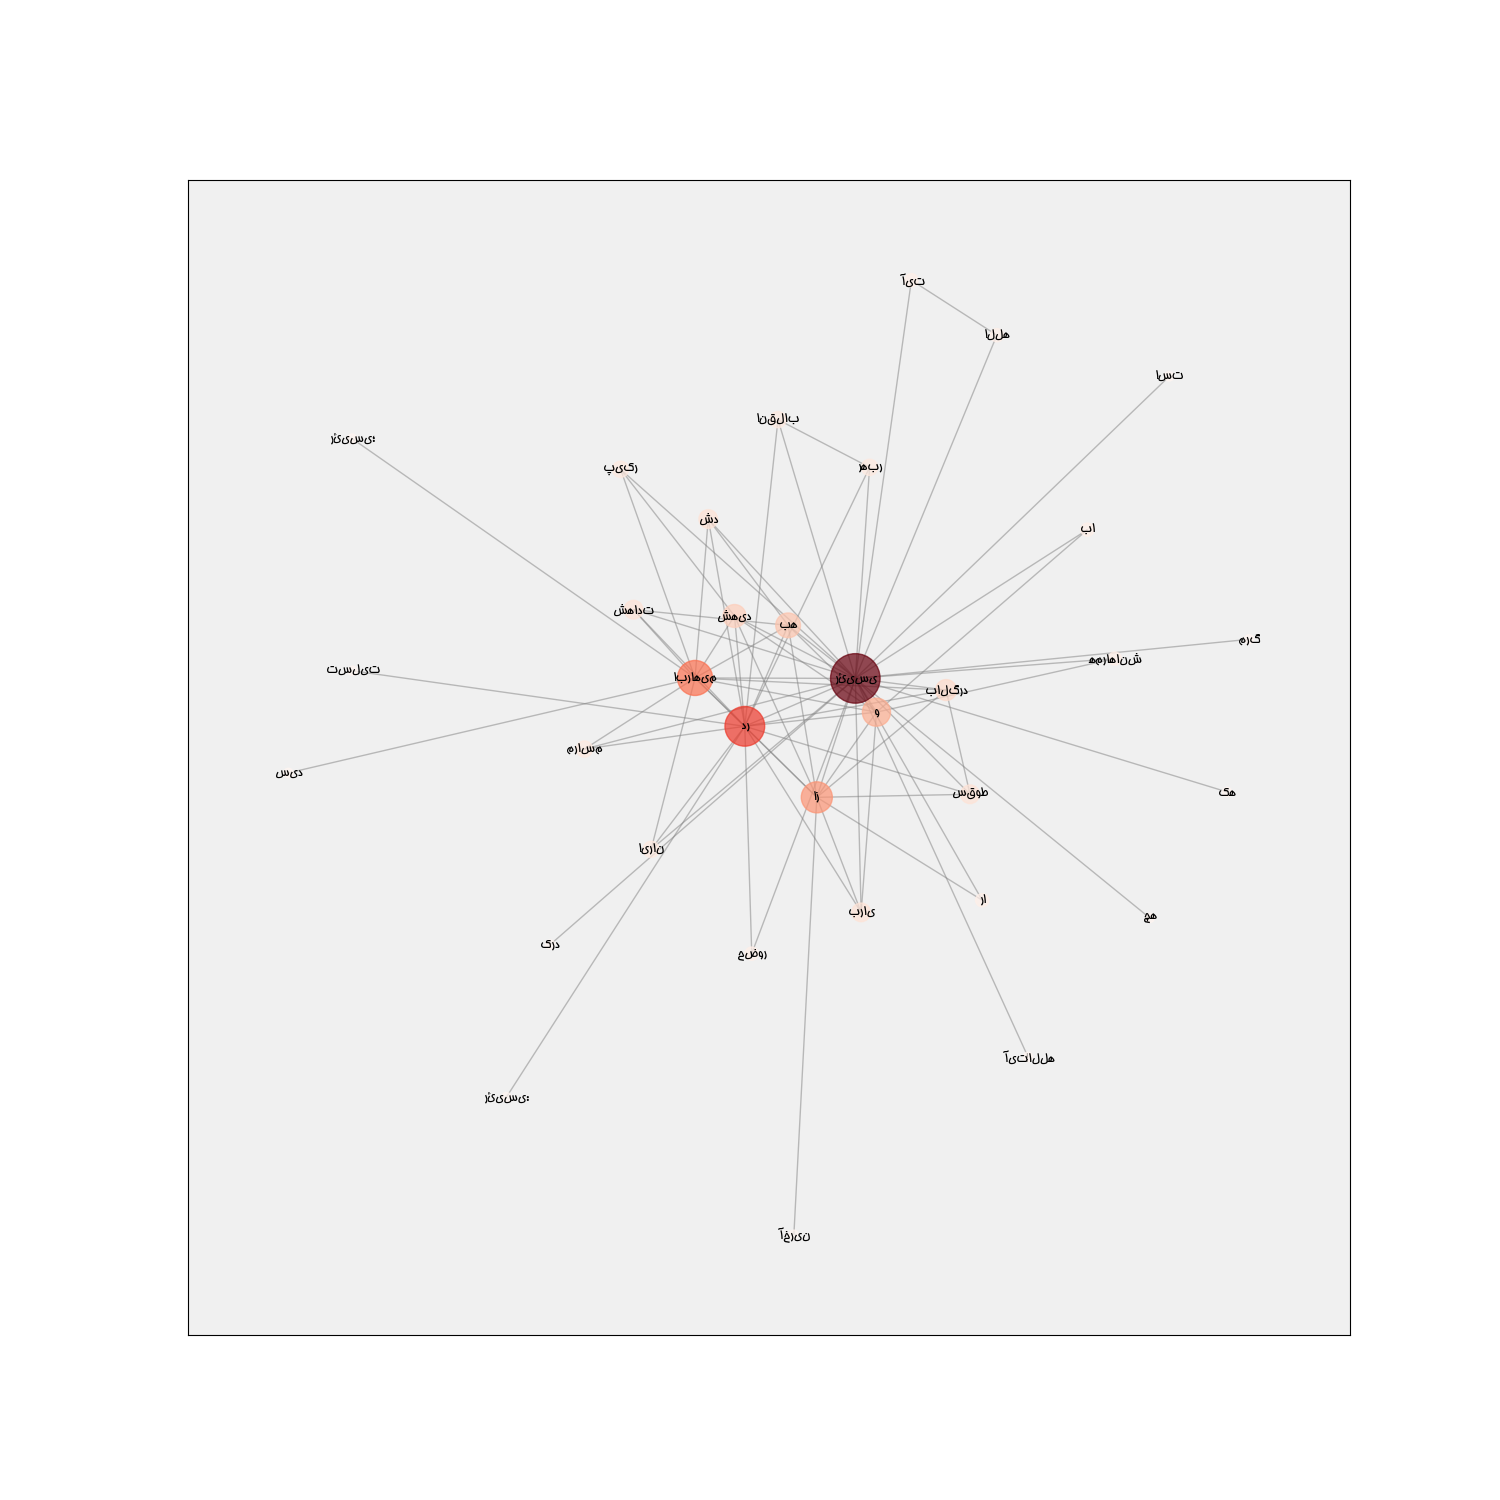
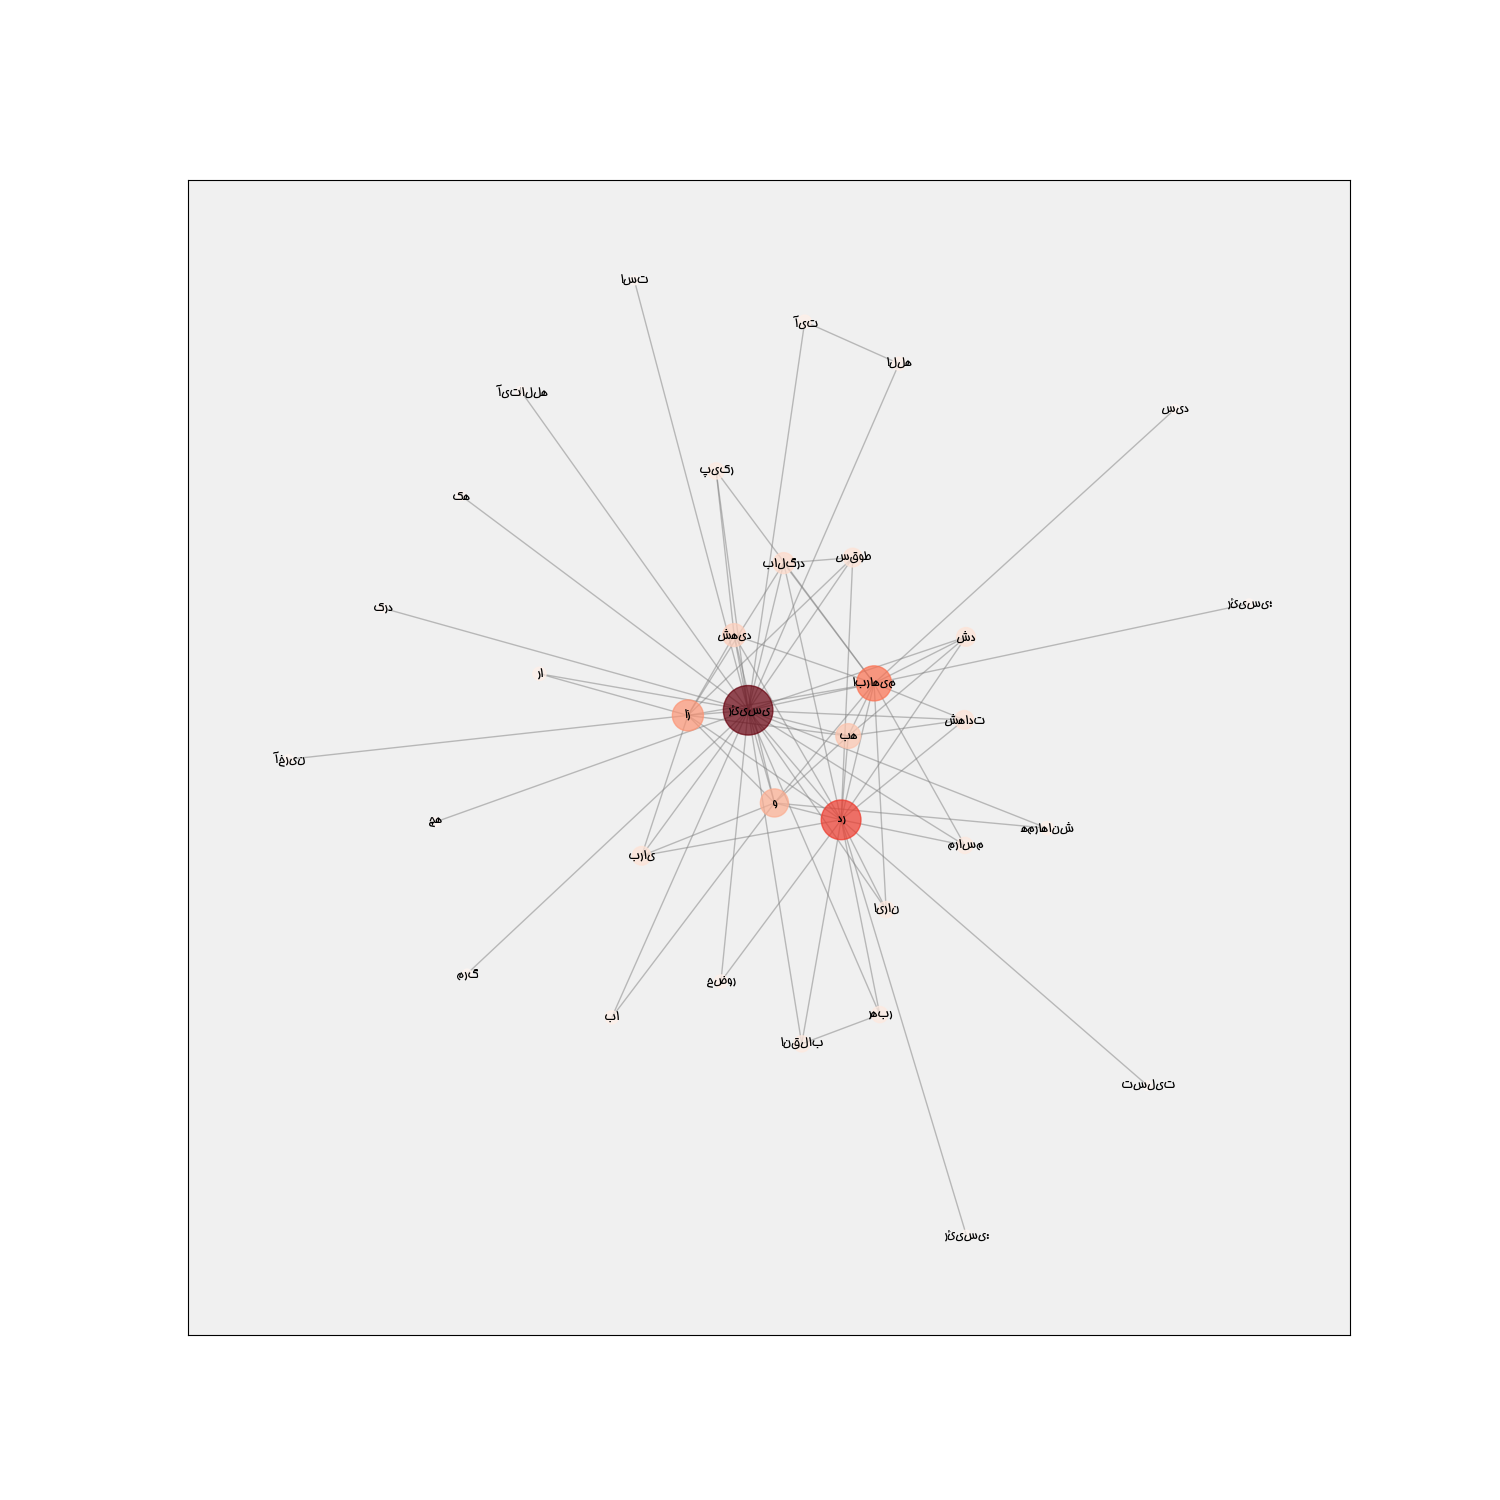
1. update functions

diff --git a/src/wordcloud4xlsx.py b/src/wordcloud4xlsx.py
@@ -70,6 +70,10 @@ class WordCloud4XLSX:
         #print(f'debug - {titles}')
         for title in self.m_xlsx_datas:
             temp_title  = str(title)
+#            if 'kr' == self.m_lang:
+#                temp_title  = self.ConvertStrOnlyKorean(temp_title)
+#            elif 'persian' == self.m_lang:
+#                temp_title  = self.ConvertStrOnlyPersian(temp_title)
             temp_title   = temp_title.strip()
             temp_title   = temp_title.replace(',', ' ')
             temp_title   = temp_title.replace('.', ' ')
@@ -172,13 +176,20 @@ class WordCloud4XLSX:
         plt.savefig(f'{self.m_output_prefix}.network.png')
         plt.show()
         print(f'# make network end.')
-    def PrepareText(self, text):
+    def ConvertStr(self, text):
         text    = re.sub("[\x00-\x1F\x7F]", "", text)       # 제어문자 [[:cntrl:]]
         text    = re.sub("[\W]", " ", text)                 # 구두점 제거
-        text    = re.sub("[^\u3131-\u3163\uac00-\ud7a3]+", " ", text)  # 한글 이외의 문자 제거
+        #text    = re.sub("[^\u3131-\u3163\uac00-\ud7a3]+", " ", text)  # 한글 이외의 문자 제거
         # text  = re.sub("(Zoom 수업|Zoom수업|줌 수업)", "줌수업", text)         # 2음절 단어
         # text  = re.sub("해지", "취소", text)               # 동음이의어
         return text
+    def ConvertStrOnlyKorean(self, str):
+        text    = re.sub("[\x00-\x1F\x7F]", "", text)       # 제어문자 [[:cntrl:]]
+        text    = re.sub("[\W]", " ", text)                 # 구두점 제거
+        text    = re.sub("[^\u3131-\u3163\uac00-\ud7a3]+", " ", text)  # 한글 이외의 문자 제거
+        return text
+    def ConvertStrOnlyPersian(self, str):
+        return "".join(re.findall(r'[\u0600-\u06FF]+', str))
     def Run(self, args):
         self.ReadArgs(args)
         self.PrintInputs()

diff --git a/docs/README.md b/docs/README.md
@@ -4,7 +4,9 @@
     https://devpouch.tistory.com/196
     https://d-e-v.tistory.com/8
     https://zephyrus1111.tistory.com/43
-    https://blog.naver.com/kimzx12/223424163148
+
+    ## network
+        https://blog.naver.com/kimzx12/223424163148
 
 # venv
     % /bin/python3 -m venv /media/PROJECT02/project/wordcloud/venv
